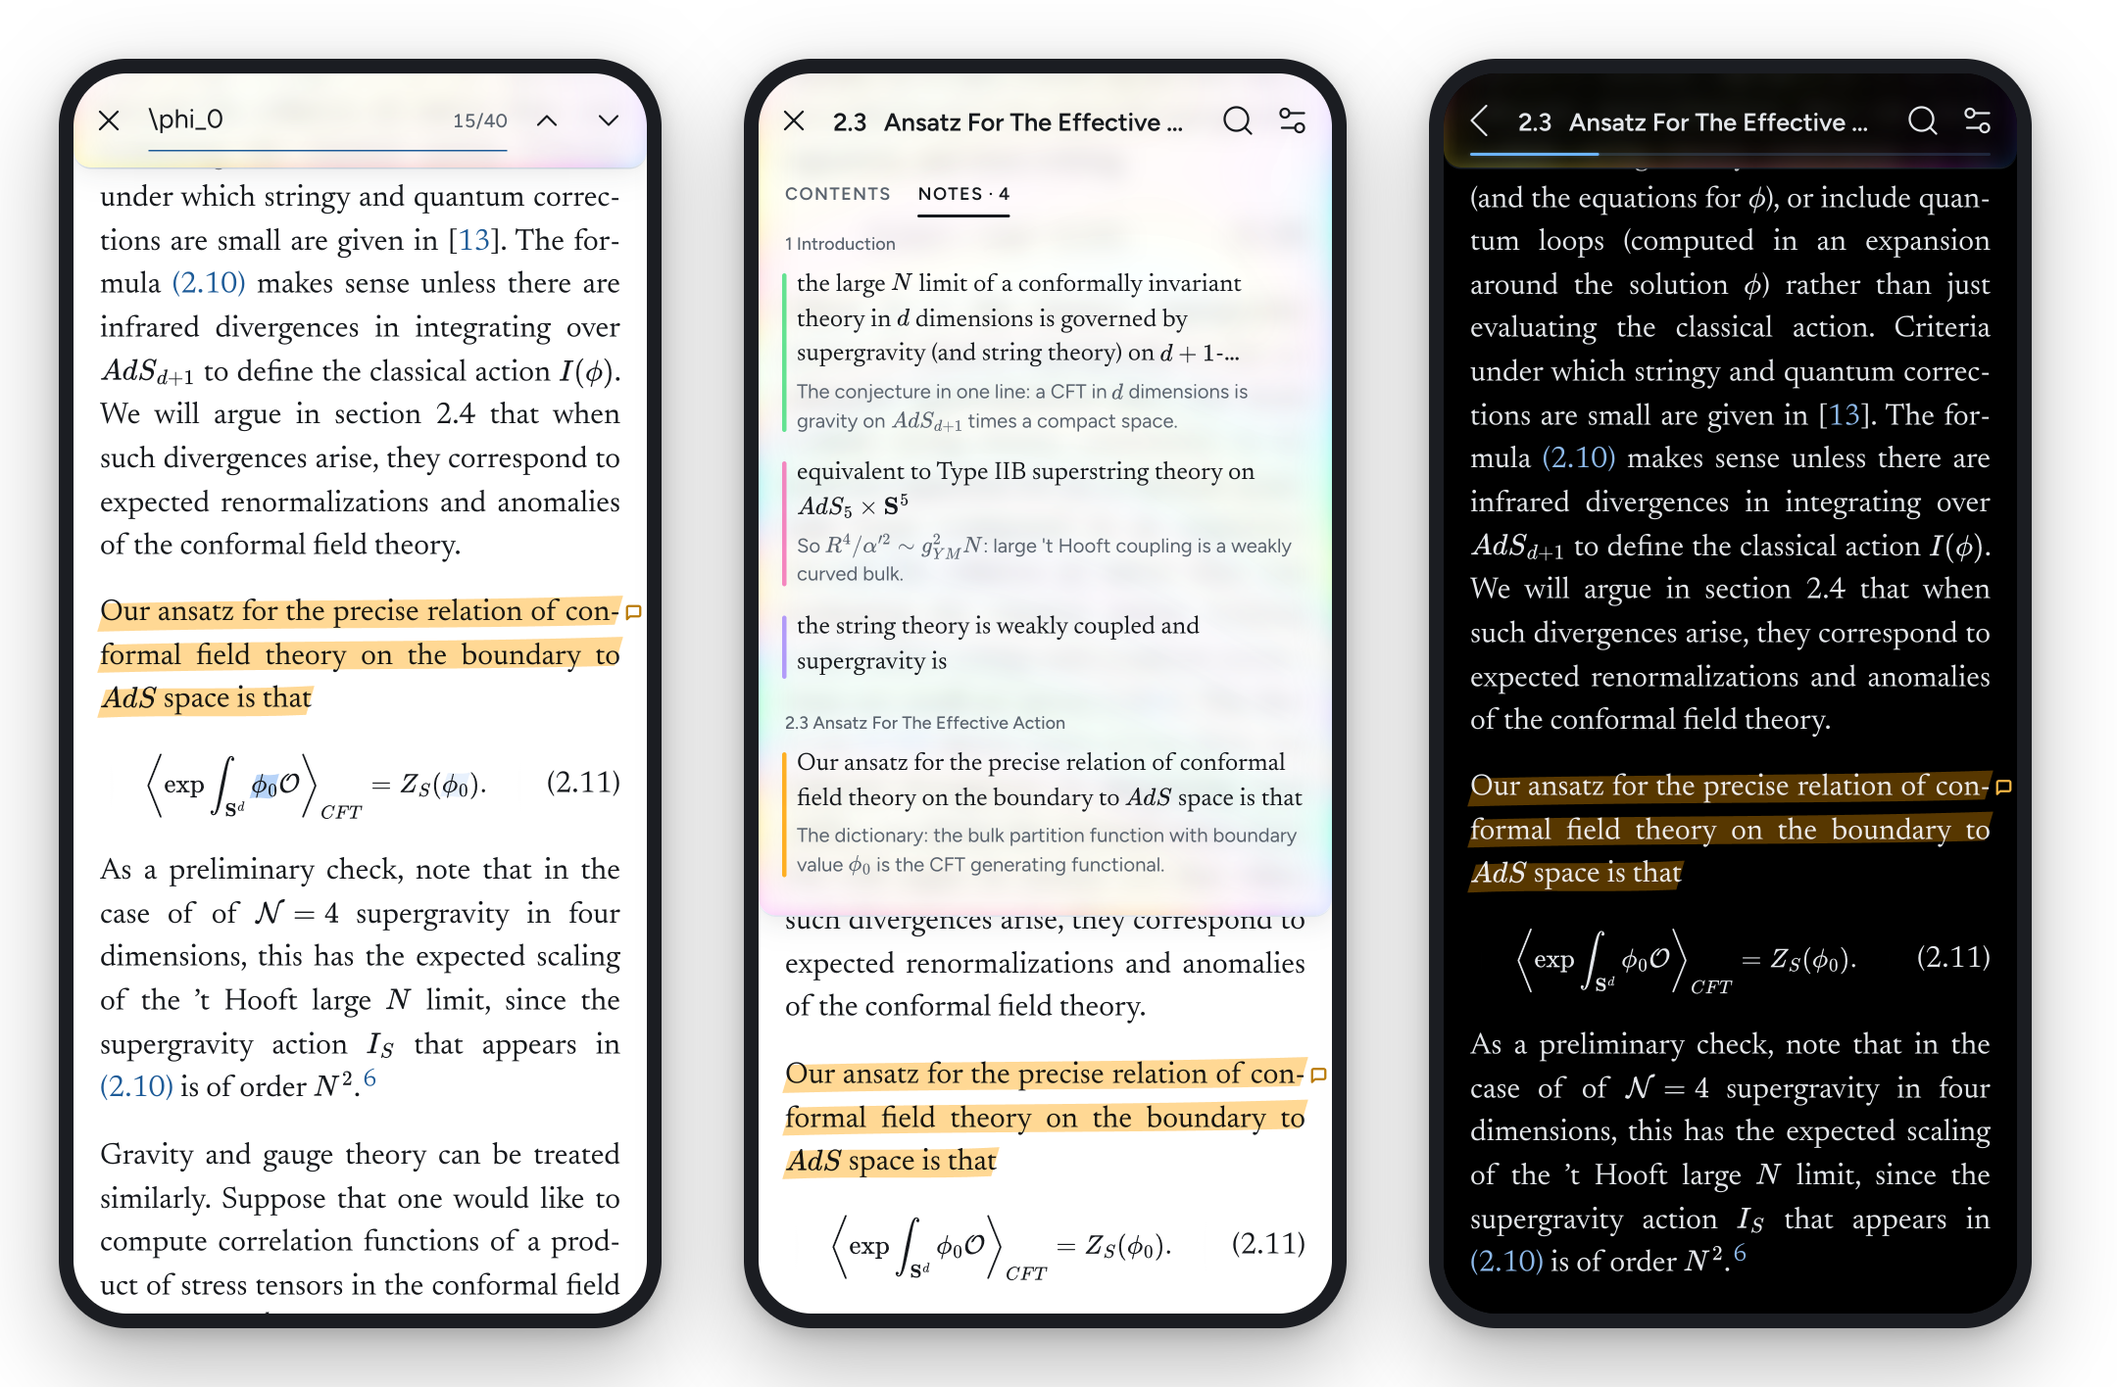
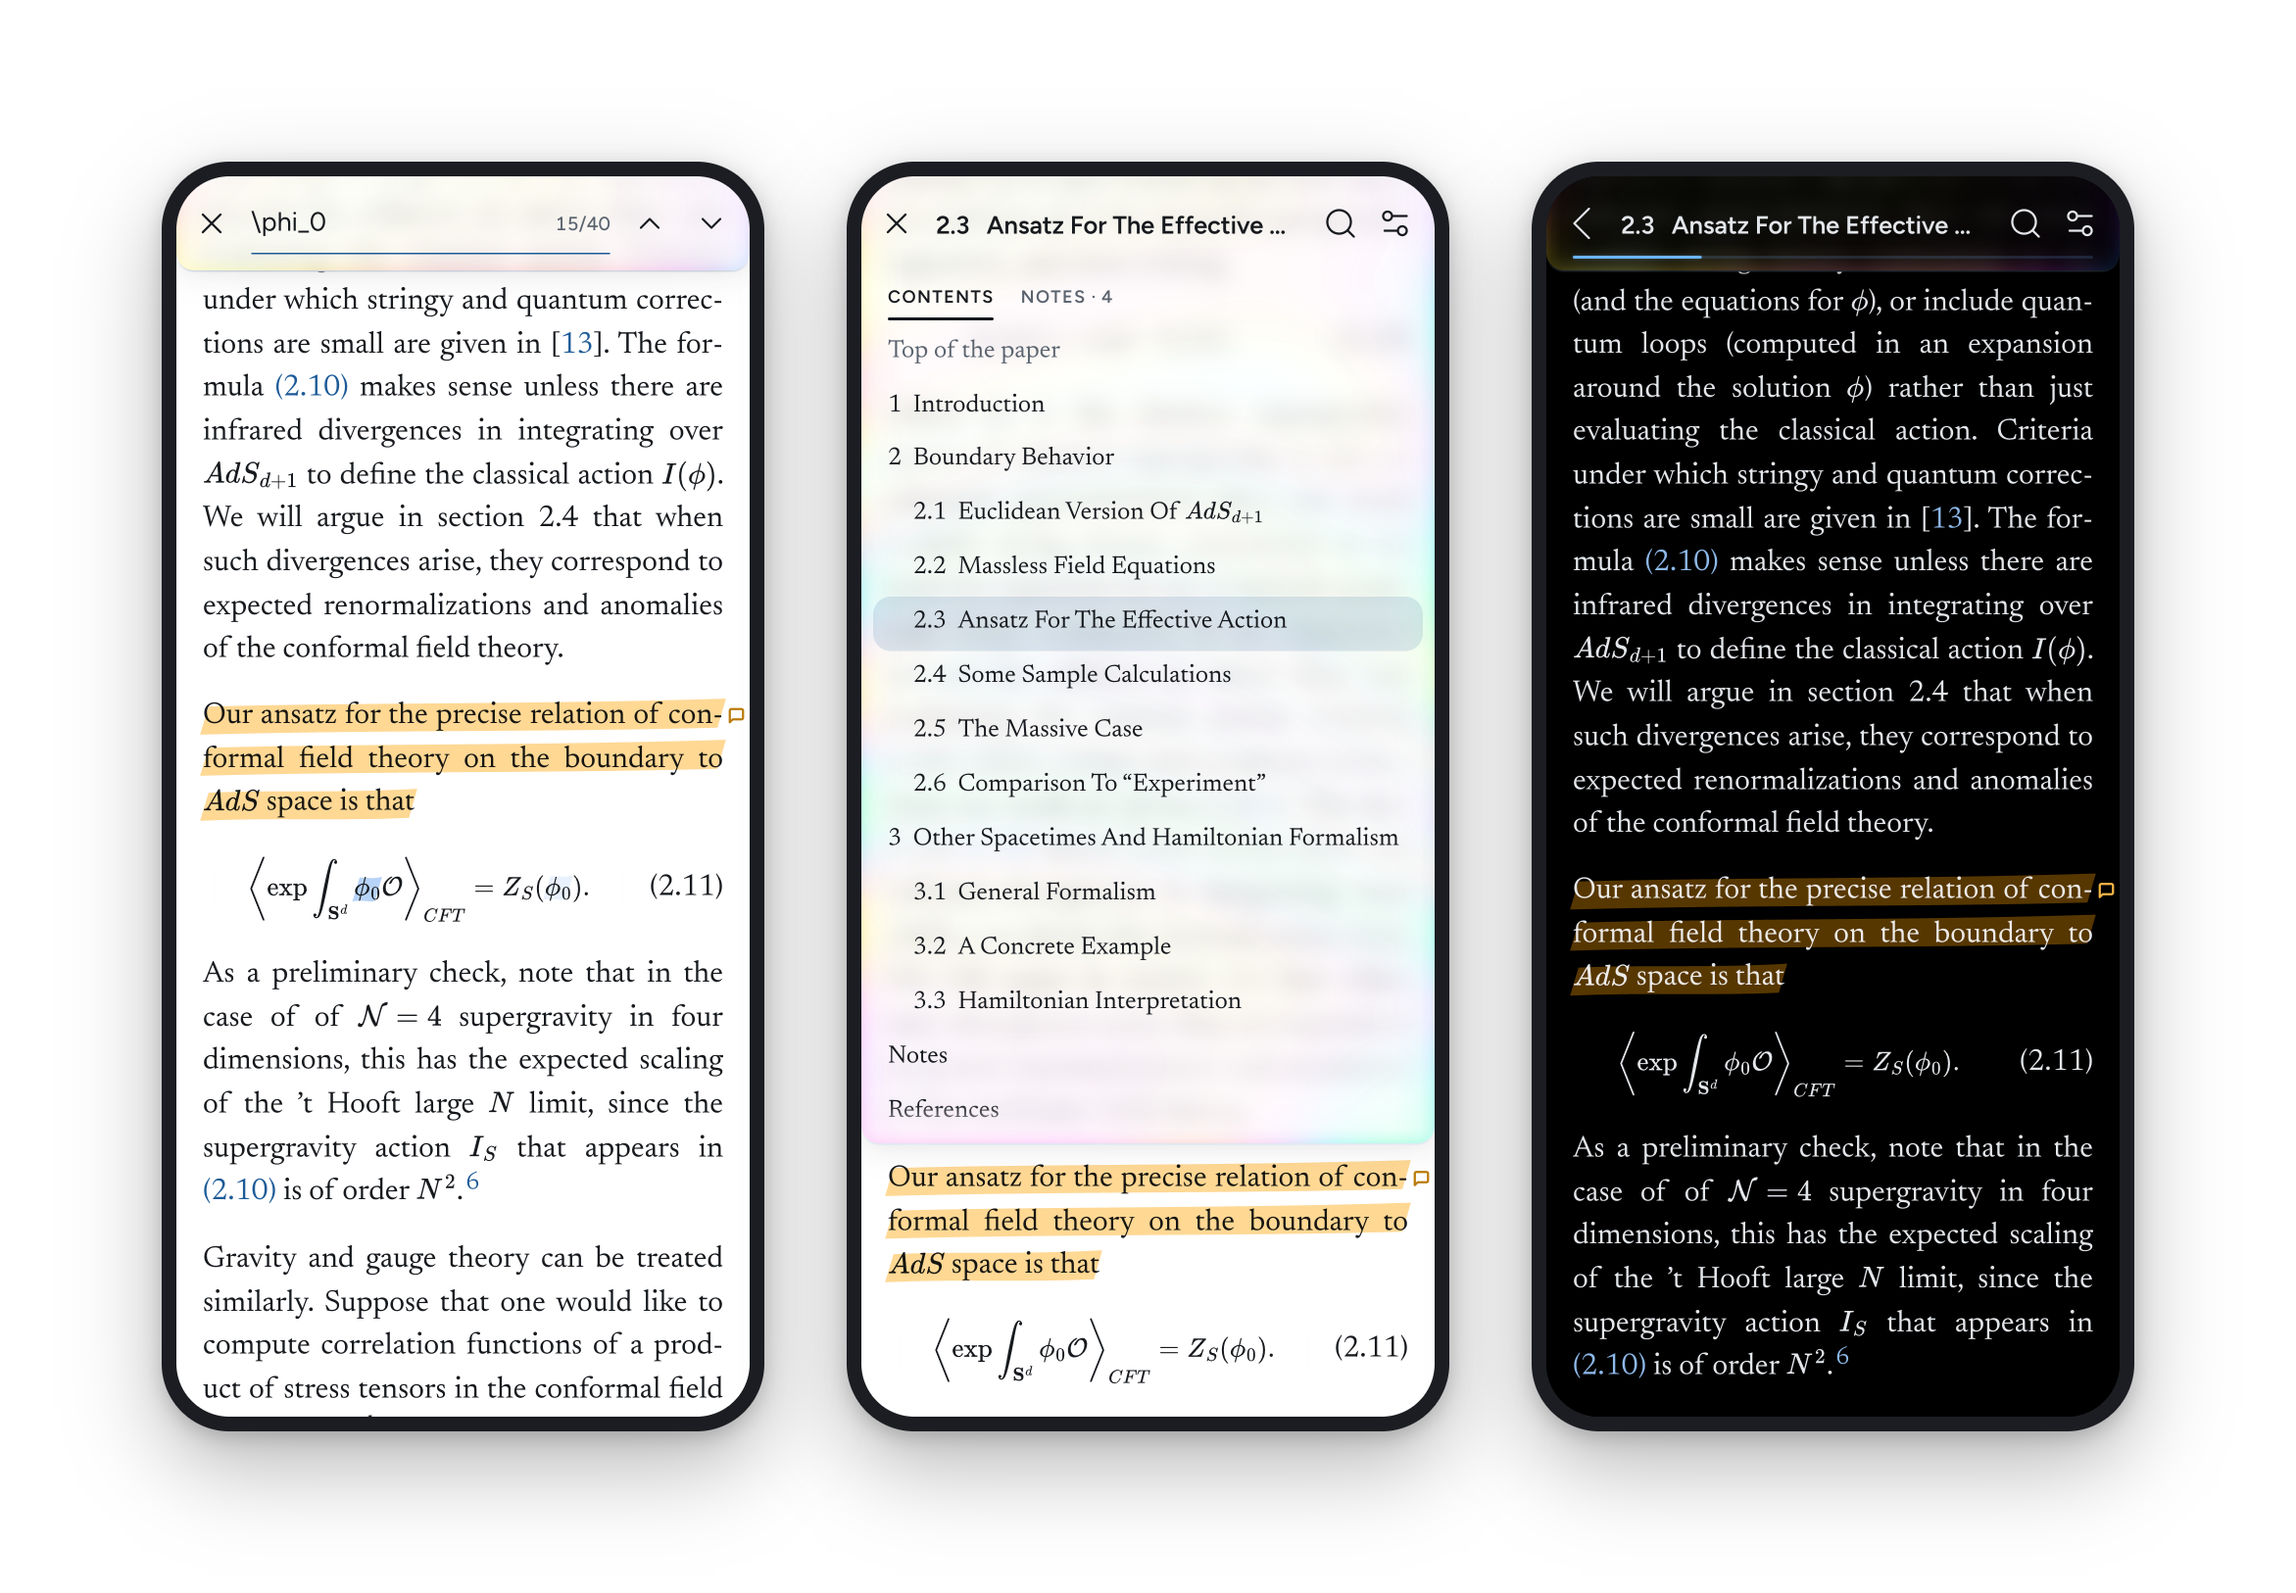
README's picture: the contents open in the middle, on white to its edges

diff --git a/README.md b/README.md
@@ -2,7 +2,7 @@
 
 Turns a LaTeX article into a paper you can read comfortably on a phone.
 
-![The reading app on a phone: Witten's "Anti De Sitter Space And Holography" (hep-th/9802150), searched for \phi_0 (the match inside equation 2.11 highlighted), the paper's marks and notes, and the dark theme](examples/app.png)
+![The reading app on a phone: Witten's "Anti De Sitter Space And Holography" (hep-th/9802150), searched for \phi_0 (the match inside equation 2.11 highlighted), its contents, and a marked passage with its note in the dark theme](examples/app.png)
 
 It works in three separate parts:
 
